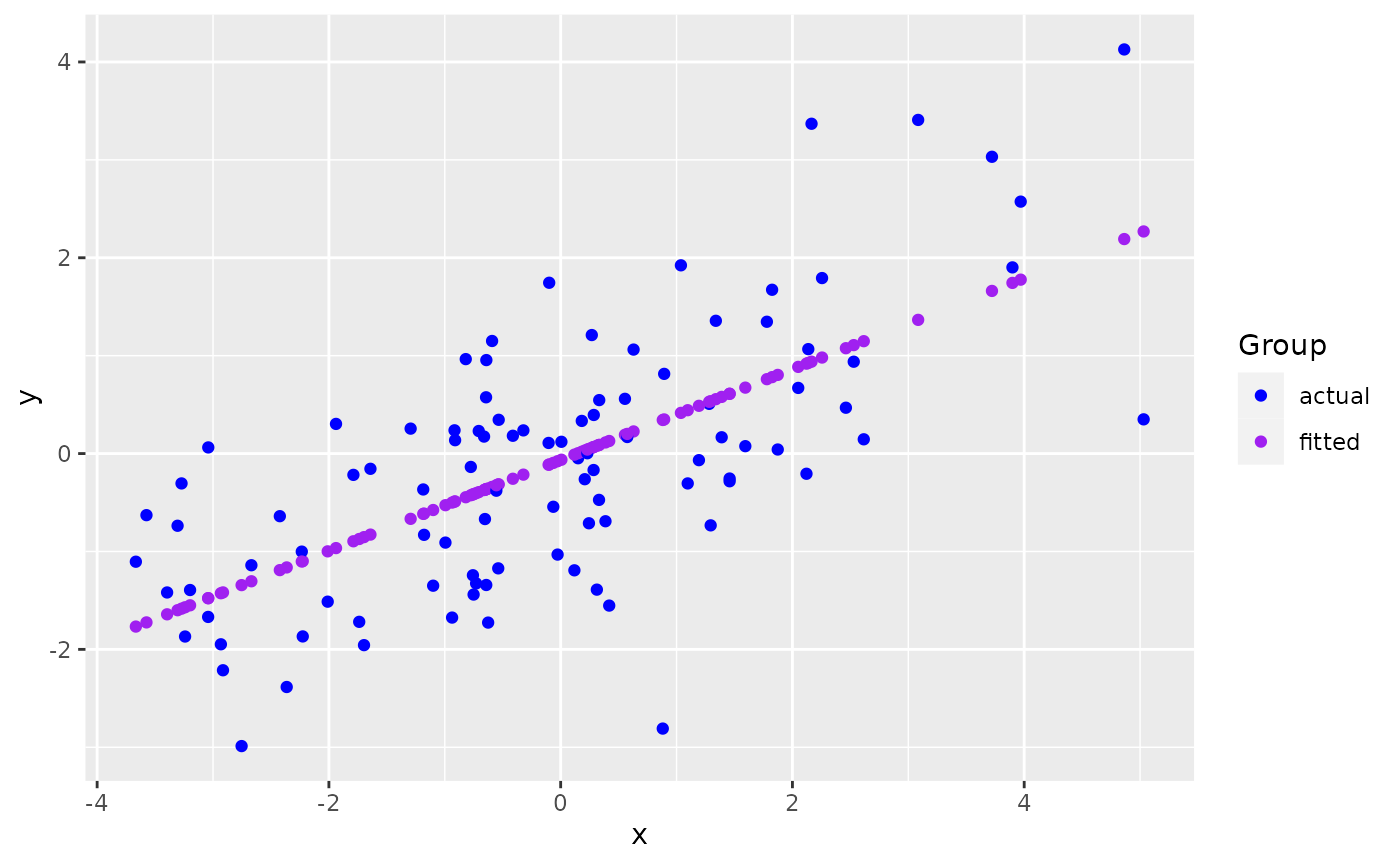
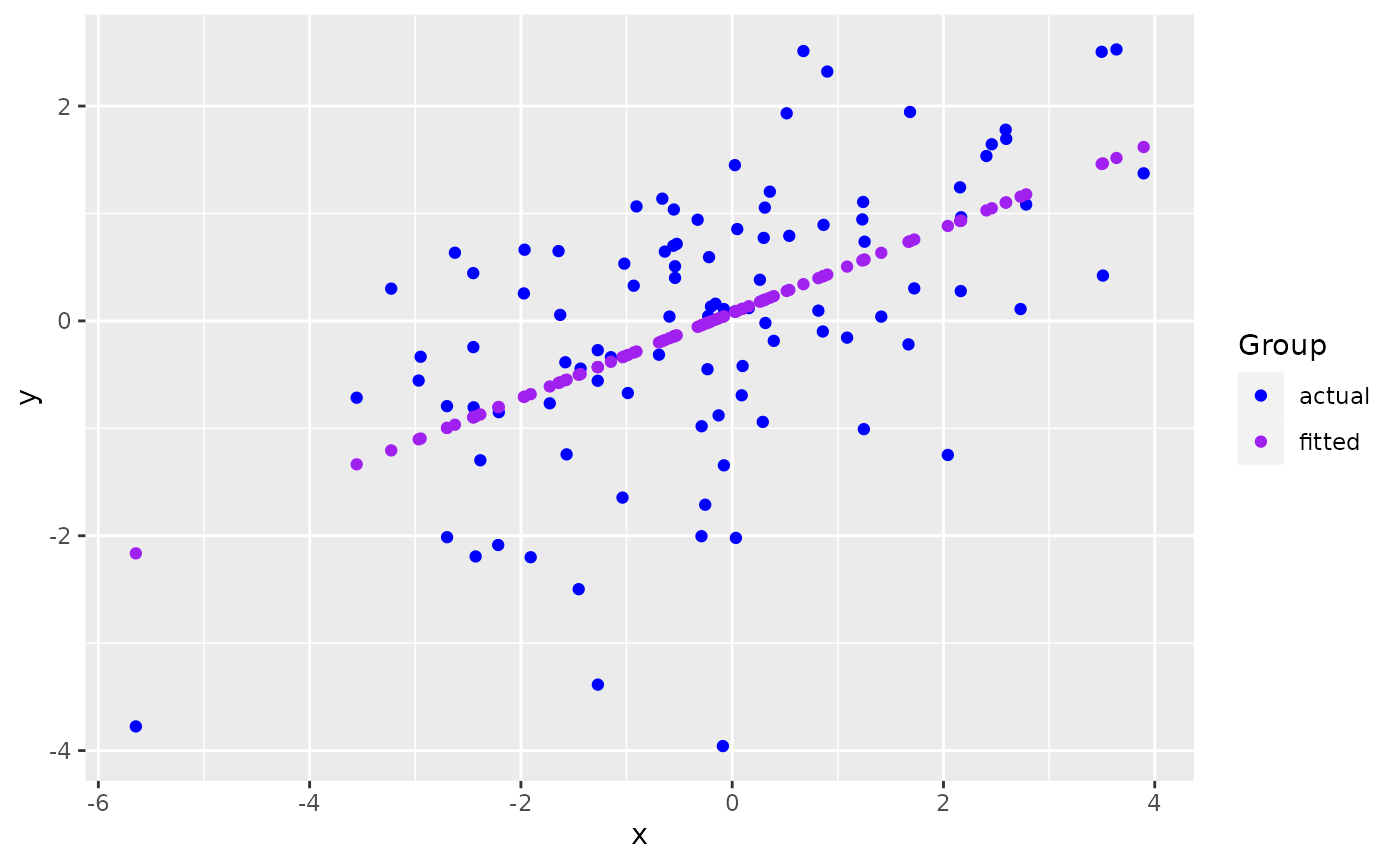
Built site for ggmatplot: 0.1.0@6bdcbad

diff --git a/articles/ggmatplot.html b/articles/ggmatplot.html
@@ -101,7 +101,7 @@
 <span class="va">x</span> <span class="op">&lt;-</span> <span class="fu"><a href="https://rdrr.io/r/base/c.html">c</a></span><span class="op">(</span><span class="fu"><a href="https://rdrr.io/r/stats/Normal.html">rnorm</a></span><span class="op">(</span><span class="fl">100</span>, sd <span class="op">=</span> <span class="fl">2</span><span class="op">)</span><span class="op">)</span>
 
 <span class="fu"><a href="https://rdrr.io/r/utils/head.html">head</a></span><span class="op">(</span><span class="va">x</span><span class="op">)</span>
-<span class="co">#&gt; [1] -0.3217770  0.4188692  0.2078862 -3.2410790  0.3327198 -3.1980548</span>
+<span class="co">#&gt; [1]  3.89481817 -0.52514826  2.59395645  0.02699265  0.04801888 -0.54148673</span>
 
 <span class="co"># matrix z</span>
 <span class="va">y</span> <span class="op">&lt;-</span> <span class="va">x</span> <span class="op">*</span> <span class="fl">0.5</span> <span class="op">+</span> <span class="fu"><a href="https://rdrr.io/r/stats/Normal.html">rnorm</a></span><span class="op">(</span><span class="fl">100</span>, sd <span class="op">=</span> <span class="fl">1</span><span class="op">)</span>
@@ -110,13 +110,13 @@
            fitted <span class="op">=</span> <span class="va">fit.y</span><span class="op">)</span>
 
 <span class="fu"><a href="https://rdrr.io/r/utils/head.html">head</a></span><span class="op">(</span><span class="va">z</span><span class="op">)</span>
-<span class="co">#&gt;       actual      fitted</span>
-<span class="co">#&gt; 1  0.2367426 -0.21520058</span>
-<span class="co">#&gt; 2 -1.5527239  0.12850801</span>
-<span class="co">#&gt; 3 -0.2618336  0.03059800</span>
-<span class="co">#&gt; 4 -1.8687389 -1.56994882</span>
-<span class="co">#&gt; 5  0.5460974  0.08852902</span>
-<span class="co">#&gt; 6 -1.3937599 -1.54998279</span></code></pre></div>
+<span class="co">#&gt;      actual      fitted</span>
+<span class="co">#&gt; 1 1.3737247  1.61875866</span>
+<span class="co">#&gt; 2 0.7170156 -0.13381921</span>
+<span class="co">#&gt; 3 1.6944575  1.10294899</span>
+<span class="co">#&gt; 4 0.0890590  0.08511231</span>
+<span class="co">#&gt; 5 0.8547721  0.09344950</span>
+<span class="co">#&gt; 6 0.5086281 -0.14029763</span></code></pre></div>
 <p><code>ggmatplot</code> plots vector <code>x</code> against each column of matrix <code>z</code> using the default <code>plot_type = "point"</code>. This will be represented on the resulting plot as two groups, identified using different shapes and colors.</p>
 <div class="sourceCode" id="cb2"><pre class="downlit sourceCode r">
 <code class="sourceCode R"><span class="kw"><a href="https://rdrr.io/r/base/library.html">library</a></span><span class="op">(</span><span class="va"><a href="https://github.com/xuan-liang/ggmatplot">ggmatplot</a></span><span class="op">)</span>
